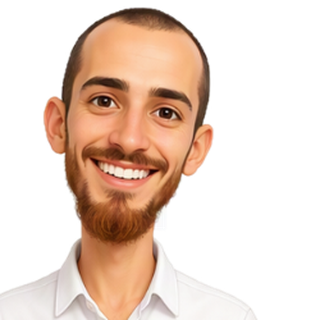
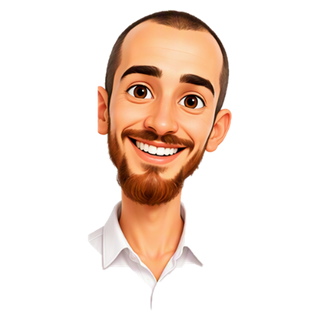
1.17.0: Ustadh Jamal in all poses
- 11 poses cut from the sheet with transparent backgrounds, plus half-body versions for small sizes
- Reactions: clap/thumbs on correct answers, think on mistakes; listen, write, point, read poses in lessons

Claude-Session: https://claude.ai/code/session_017k1fY8f86ezbmhEdfHASo2

diff --git a/js/literacy.js b/js/literacy.js
@@ -35,7 +35,7 @@
   // سؤال اختيار: يسمع المتعلم شيئاً (أو يقرأه) ثم يختار
   function choose(b, { prompt, hear, show, options, cols }) {
     return gone(b) || new Promise(res => {
-      b.innerHTML = `<div class="lr-step">${show ? `<div class="lr-q">${show}</div>` : `<button class="lr-ic xl" data-hear>🔊</button>`}
+      b.innerHTML = `<div class="lr-step">${show ? `<div class="lr-q">${show}</div>` : `<div class="row" style="align-items:center;gap:6px">${LX.who('listen', 'sm2')}<button class="lr-ic xl" data-hear>🔊</button></div>`}
         <div class="lr-opts ${cols === 2 ? 'c2' : ''}">${options.map((o, k) => `<button class="lr-tile opt" data-o="${k}">${o.html}</button>`).join('')}</div></div>`;
       const play = () => hear && say(hear[0], hear[1]);
       const hb = b.querySelector('[data-hear]'); if (hb) hb.onclick = play;
@@ -43,22 +43,22 @@
       let tries = 0;
       b.querySelectorAll('[data-o]').forEach(t => t.onclick = async () => {
         const o = options[+t.dataset.o];
-        if (o.ok) { t.classList.add('good'); LEARN.tone('ok'); LEARN.burst(t); b.querySelectorAll('[data-o]').forEach(x => x.disabled = true); await LEARN.praise(); res(tries === 0); }
-        else { tries++; t.classList.add('bad'); LEARN.tone('bad'); setTimeout(() => t.classList.remove('bad'), 500); await say('p_try_again'); play(); }
+        if (o.ok) { t.classList.add('good'); LEARN.tone('ok'); LEARN.burst(t); LEARN.react(Math.random() < 0.5 ? 'clap' : 'thumbs'); b.querySelectorAll('[data-o]').forEach(x => x.disabled = true); await LEARN.praise(); res(tries === 0); }
+        else { tries++; t.classList.add('bad'); LEARN.tone('bad'); LEARN.react('think'); setTimeout(() => t.classList.remove('bad'), 500); await say('p_try_again'); play(); }
       });
     });
   }
 
   function writeStep(b, text, { guide, prompt, model }) {
     return gone(b) || new Promise(res => {
-      b.innerHTML = `<div class="lr-step">${model ? `<div class="lr-model" data-say="${model}">${text}</div>` : ''}<div class="lr-padhost"></div><div class="lr-foot"><button class="lr-btn ghost" data-skip>تخطَّ ⬅</button></div></div>`;
+      b.innerHTML = `<div class="lr-step"><div class="row" style="align-items:center;gap:8px">${LX.who('write', 'sm2')}${model ? `<div class="lr-model" data-say="${model}">${text}</div>` : ''}</div><div class="lr-padhost"></div><div class="lr-foot"><button class="lr-btn ghost" data-skip>تخطَّ ⬅</button></div></div>`;
       bindSay(b);
       say(prompt);
       let fails = 0;
       LEARN.pad(b.querySelector('.lr-padhost'), text, {
         guide, onCheck: async (sc, ok) => {
-          if (ok) { LEARN.tone('win'); LEARN.burst(b.querySelector('.lr-padhost')); await LEARN.praise(); res(true); }
-          else { fails++; LEARN.tone('bad'); await say('p_try_again'); if (fails >= 3) b.querySelector('[data-skip]').classList.add('lr-pulse'); }
+          if (ok) { LEARN.tone('win'); LEARN.burst(b.querySelector('.lr-padhost')); LEARN.react('thumbs'); await LEARN.praise(); res(true); }
+          else { fails++; LEARN.tone('bad'); LEARN.react('think'); await say('p_try_again'); if (fails >= 3) b.querySelector('[data-skip]').classList.add('lr-pulse'); }
         }
       });
       b.querySelector('[data-skip]').onclick = () => { LEARN.stop(); res(false); };
@@ -68,7 +68,7 @@
   // شاهد رسم الحرف متحركاً قبل أن يكتبه
   function watch(b, c) {
     return gone(b) || new Promise(res => {
-      b.innerHTML = `<div class="lr-step"><div class="lr-dl"></div><div class="lr-foot">${NEXT}</div></div>`;
+      b.innerHTML = `<div class="lr-step"><div class="row" style="align-items:center;gap:4px">${LX.who('point', 'sm2 flip')}<div class="lr-dl"></div></div><div class="lr-foot">${NEXT}</div></div>`;
       const nx = b.querySelector('[data-next]'); nx.onclick = () => { LEARN.stop(); res(); };
       say('p_watch'); LX.drawLetter(b.querySelector('.lr-dl'), c);
     });
@@ -178,7 +178,7 @@
       b.querySelectorAll('[data-k]').forEach(ch => ch.onclick = async () => {
         const k = +ch.dataset.k;
         if (words[k] === words[pos]) { slots[pos].textContent = words[k]; slots[pos].classList.add('ok'); ch.disabled = true; ch.classList.add('used'); pos++; LEARN.tone('ok');
-          if (pos === words.length) { LEARN.burst(b.querySelector('#arLine')); await LEARN.praise(); res(); } }
+          if (pos === words.length) { LEARN.burst(b.querySelector('#arLine')); LEARN.react('clap'); await LEARN.praise(); res(); } }
         else { ch.classList.add('bad'); LEARN.tone('bad'); setTimeout(() => ch.classList.remove('bad'), 500); }
       });
     });

diff --git a/js/kids.js b/js/kids.js
@@ -217,7 +217,7 @@
     if (sec === 'stories') {
       if (id == null) {
         const b = sh('📚 قصصي', '#/kids');
-        b.innerHTML = `<div class="lr-grid g2">${LEARN.STORIES.map((st, i) => `<a class="lr-tile kd sur ${k['st_' + st.id] ? 'done' : ''}" href="#/kids/stories/${st.id}" style="--h:${i * 53 % 360}" data-sk="stt_${st.id}"><span class="lr-emo" style="font-size:44px">${st.ic}</span><b>${st.t}</b>${k['st_' + st.id] ? '<i class="lr-ok">⭐</i>' : ''}</a>`).join('')}</div>`;
+        b.innerHTML = `${LX.who('read', 'md')}<div class="lr-grid g2">${LEARN.STORIES.map((st, i) => `<a class="lr-tile kd sur ${k['st_' + st.id] ? 'done' : ''}" href="#/kids/stories/${st.id}" style="--h:${i * 53 % 360}" data-sk="stt_${st.id}"><span class="lr-emo" style="font-size:44px">${st.ic}</span><b>${st.t}</b>${k['st_' + st.id] ? '<i class="lr-ok">⭐</i>' : ''}</a>`).join('')}</div>`;
         LIT.sayTiles(b); return;
       }
       const st = LEARN.STORIES.find(x => x.id === id); if (!st) { location.hash = '#/kids/stories'; return; }
@@ -264,7 +264,7 @@
     const b = sh('سورة ' + AR.SURAHS[s - 1], list);
     const ay = (await DB.byIndex('items', 'bookId', 'quran')).filter(a => a.surah === s).sort((x, y) => x.ayah - y.ayah);
     const heard = new Set(); wasQ = true;
-    b.innerHTML = `<div class="kd-quran">
+    b.innerHTML = `${LX.who('read', 'md')}<div class="kd-quran">
       <div class="row" style="justify-content:center;gap:10px;flex-wrap:wrap"><button class="lr-btn ok" data-all>▶ لقّنّي السورة</button><button class="lr-btn ghost" data-stop>⏹</button></div>
       <div class="muted" style="text-align:center;margin:8px 0">👆 اضغط على الآية لتسمعها ثم ردّدها</div>
       ${ay.map(a => `<button class="kd-ayah" data-a="${a.ayah}" data-card="quran:${s}:${a.ayah}"><span>${esc(noBasm(a.text, s, a.ayah))}</span> <i>${AD(a.ayah)}</i></button>`).join('')}</div>`;

diff --git a/sw.js b/sw.js
@@ -1,6 +1,6 @@
 // عامل الخدمة لنسخة الويب: يحفظ واجهة البرنامج ليفتح بدون إنترنت.
 // الكتب نفسها تُحفظ في قاعدة بيانات المتصفح عند التثبيت، فلا تحتاج تخزيناً هنا.
-const VERSION = 'v47';
+const VERSION = 'v48';
 const SHELL = ['./', './index.html', './css/style.css', './manifest.webmanifest', './icons/icon-192.png', './icons/favicon.png',
   './fonts/AmiriQuran-Regular.ttf', './fonts/NotoNaskhArabic.ttf', './fonts/IBMPlexSansArabic-Regular.ttf', './fonts/IBMPlexSansArabic-Medium.ttf', './fonts/IBMPlexSansArabic-Bold.ttf', './js/native.js', './js/media.js', './js/arabic.js', './js/db.js', './js/sample-data.js', './js/sample-sira.js', './js/sample-more.js', './js/fiqh-masail.js', './js/importers.js', './js/mindmap.js',
   './js/app.js', './js/views.js', './js/tools.js', './js/packs.js', './js/audio.js', './js/tasmee.js', './js/exams.js', './js/tajweed.js', './js/tts.js', './js/me.js', './js/mutash.js', './js/adhkar-data.js', './js/praycalc.js', './js/notify.js', './js/adhkar.js', './js/tasbih.js', './js/salah.js', './js/hijri.js', './js/zakat.js', './js/updater.js', './js/sahaba-top.js', './js/sahaba-sum.js', './js/rijal.js', './js/sira-more.js', './js/docx.js', './js/pdfgen.js', './js/khutba.js', './js/ayah.js', './js/pages.js', './js/mymushaf.js', './js/vendor/pdfjs/pdf.min.mjs', './js/vendor/pdfjs/pdf.worker.min.mjs', './js/khatma.js', './js/guide.js', './audio/learn/index.js', './js/learn-data.js', './js/learn-paths.js', './js/learn-core.js', './js/literacy.js', './js/kids.js', './js/learn-extra.js', './js/learn-record.js', './audio/adhan.mp3', './audio/adhan_fajr.mp3', './js/more.js', './js/curriculum.js', './js/talab.js', './data/manifest.js', './data/review.js'];

diff --git a/js/learn-core.js b/js/learn-core.js
@@ -197,6 +197,14 @@
     b.innerHTML = Array.from({ length: 14 }, (_, i) => `<i style="--a:${i * 26}deg;--d:${60 + (i % 3) * 30}px">${['⭐', '✨', '🌟'][i % 3]}</i>`).join('');
     (host || document.body).appendChild(b); setTimeout(() => b.remove(), 1100);
   }
+  // ردّ فعل الأستاذ جمال في زاوية الشاشة (تصفيق، إبهام، تفكير…)
+  let rt = null;
+  function react(pose, ms = 1600) {
+    let el = document.getElementById('tcReact');
+    if (!el) { el = document.createElement('img'); el.id = 'tcReact'; el.className = 'tc-react'; el.alt = ''; el.onerror = () => el.classList.remove('on'); document.body.appendChild(el); }
+    el.src = 'img/teacher/' + pose + '-h.png'; el.classList.remove('on'); void el.offsetWidth; el.classList.add('on');
+    clearTimeout(rt); rt = setTimeout(() => el.classList.remove('on'), ms);
+  }
   const praise = () => say(['p_good', 'p_great', 'p_char_good'][Math.floor(Math.random() * 3)]);
 
   // ===== التقدم =====
@@ -332,5 +340,5 @@
   }
   const sameWord = (heard, w) => { const h = ' ' + AR.normalize(heard) + ' ', c = AR.normalize(w); return h.includes(c) || h.includes(' ال' + c) || h.includes(c.replace(/ه$/, '')); };
 
-  window.LEARN = { THEMES, ALLW, PICW, DECODE, SK, SA, SIGNS, STORIES, firstOf, L, HAR, TAN, W, S, NUM, P, ANIMALS, AD, harakah, tanween, madd, forms, clips, VS, say, sayAll, stop, tone, burst, praise, prog, mark, shuffle, pick, shell, pad, listen, sameWord, esc, syncMode };
+  window.LEARN = { react, THEMES, ALLW, PICW, DECODE, SK, SA, SIGNS, STORIES, firstOf, L, HAR, TAN, W, S, NUM, P, ANIMALS, AD, harakah, tanween, madd, forms, clips, VS, say, sayAll, stop, tone, burst, praise, prog, mark, shuffle, pick, shell, pad, listen, sameWord, esc, syncMode };
 })();

diff --git a/css/style.css b/css/style.css
@@ -723,7 +723,7 @@ html.dark body.learn-mode, body.dark.learn-mode { --lr-pad: #ffffff; }
 .kd-ayah.ayah-playing { border-color: #2e9e5b; background: #e3f7ea; }
 /* الأستاذ جمال */
 .tc { display: block; object-fit: contain; pointer-events: none; }
-.tc.hero { width: 190px; height: 190px; margin: 0 auto 4px; animation: tcBob 2.4s ease-in-out infinite; }
+.tc.tch { width: 190px; height: 190px; margin: 0 auto 4px; animation: tcBob 2.4s ease-in-out infinite; }
 .tc.lg { width: 170px; height: 170px; margin: 0 auto; animation: tcBob 2s ease-in-out infinite; }
 .tc.md { width: 120px; height: 120px; margin: 0 auto; }
 .tc.sm { width: 64px; height: 64px; }
@@ -774,3 +774,8 @@ html.dark body.learn-mode, body.dark.learn-mode { --lr-pad: #ffffff; }
 .st-sent span { display: inline-block; opacity: 0; animation: stWord .5s ease forwards; }
 @keyframes stWord { from { opacity: 0; transform: translateY(12px); } to { opacity: 1; transform: none; } }
 img.tc[src$="face.png"] { border-radius: 50%; background: #fff; box-shadow: 0 2px 6px rgba(0,0,0,.15); }
+.tc.sm2 { width: 92px; height: 92px; flex: none; }
+.tc.flip { transform: scaleX(-1); }
+.tc-react { position: fixed; bottom: calc(env(safe-area-inset-bottom) + 10px); left: 8px; width: 130px; height: 130px; object-fit: contain; z-index: 120; pointer-events: none; opacity: 0; transform: translateY(40px) scale(.7); transition: opacity .25s, transform .35s cubic-bezier(.3,1.6,.5,1); }
+.tc-react.on { opacity: 1; transform: none; }
+body:not(.learn-mode) .tc-react { display: none; }

diff --git a/js/learn-record.js b/js/learn-record.js
@@ -5,7 +5,7 @@
   // ===== شاشة البداية: من أنت؟ =====
   V.start = async el => {
     const b = LEARN.shell(el, { title: 'مكتبة القرآن والسنة', repeat: () => LEARN.say('p_welcome') });
-    b.innerHTML = `${LX.who('wave', 'hero')}<div class="st-grid">
+    b.innerHTML = `${LX.who('wave', 'tch')}<div class="st-grid">
       <a class="st-card kids" href="#/kids" data-aud="kids"><span class="st-ic">🧒</span><b>الأطفال</b><small>حروف، كتابة، أرقام، قرآن، ألعاب</small></a>
       <a class="st-card lit" href="#/literacy" data-aud="lit"><span class="st-ic">✍</span><b>تعلّم القراءة والكتابة</b><small>لمن لا يعرف القراءة — بالصوت والصور</small></a>
       <a class="st-card adult" href="#/" data-aud="adult"><span class="st-ic">📚</span><b>الشباب والكبار</b><small>المصحف والتفسير والحديث والفقه</small></a>

diff --git a/js/learn-extra.js b/js/learn-extra.js
@@ -7,7 +7,8 @@
   const dayKey = off => { const d = new Date(); d.setDate(d.getDate() - off); return `${d.getFullYear()}-${String(d.getMonth() + 1).padStart(2, '0')}-${String(d.getDate()).padStart(2, '0')}`; };
 
   // ===== الأستاذ جمال (صور الأوضاع في img/teacher/ — تختفي إن لم توجد) =====
-  const who = (pose, cls = '') => `<img class="tc ${cls}" src="img/teacher/${pose}.png" alt="" onerror="this.remove()">`;
+  // الأحجام الصغيرة تستعمل نسخة نصف الجسم (-h) ليظهر الوجه بوضوح
+  const who = (pose, cls = '') => `<img class="tc ${cls}" src="img/teacher/${pose}${pose !== 'face' && /\b(sm|sm2|md)\b/.test(cls) ? '-h' : ''}.png" alt="" onerror="this.remove()">`;
 
   // ===== رسم الحرف متحركاً (مسارات من خط النسخ) =====
   function drawLetter(host, ch, opt = {}) {
